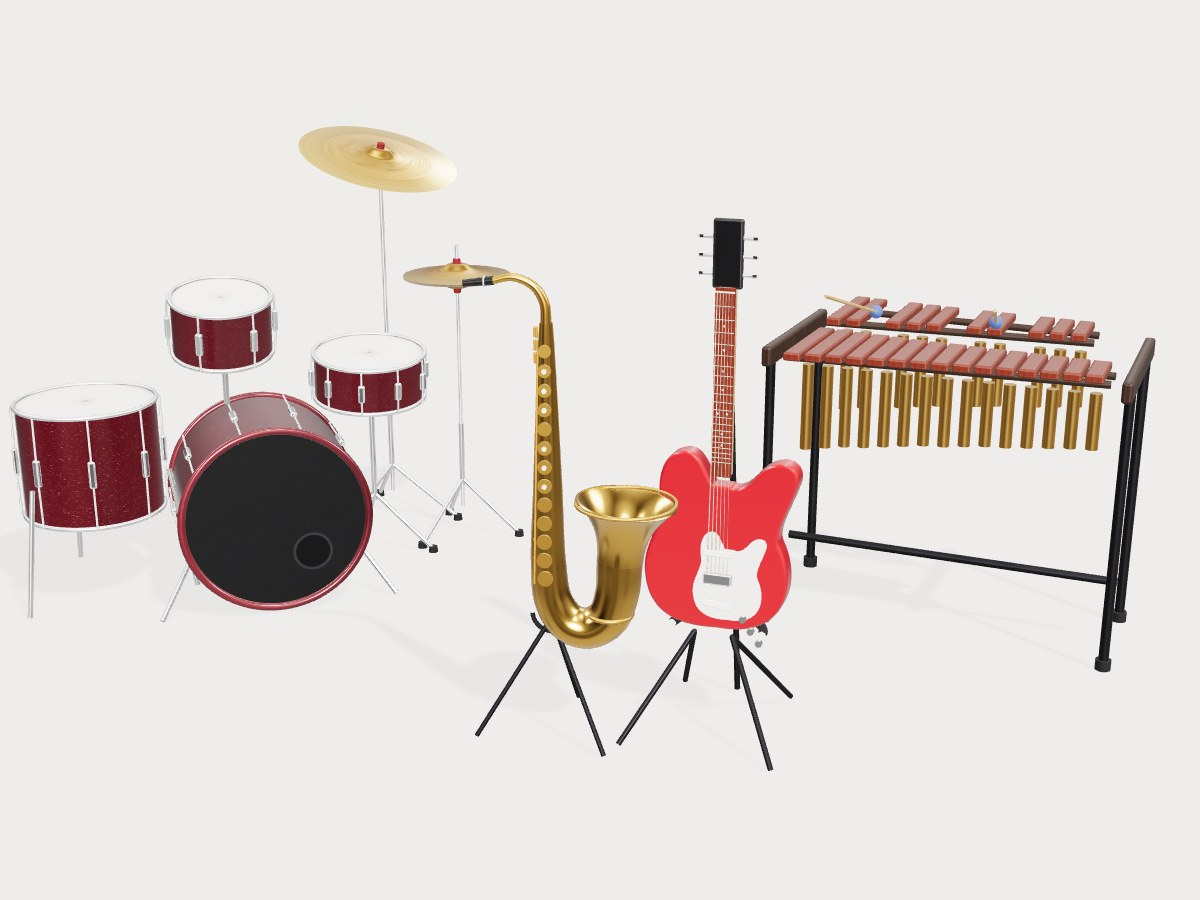
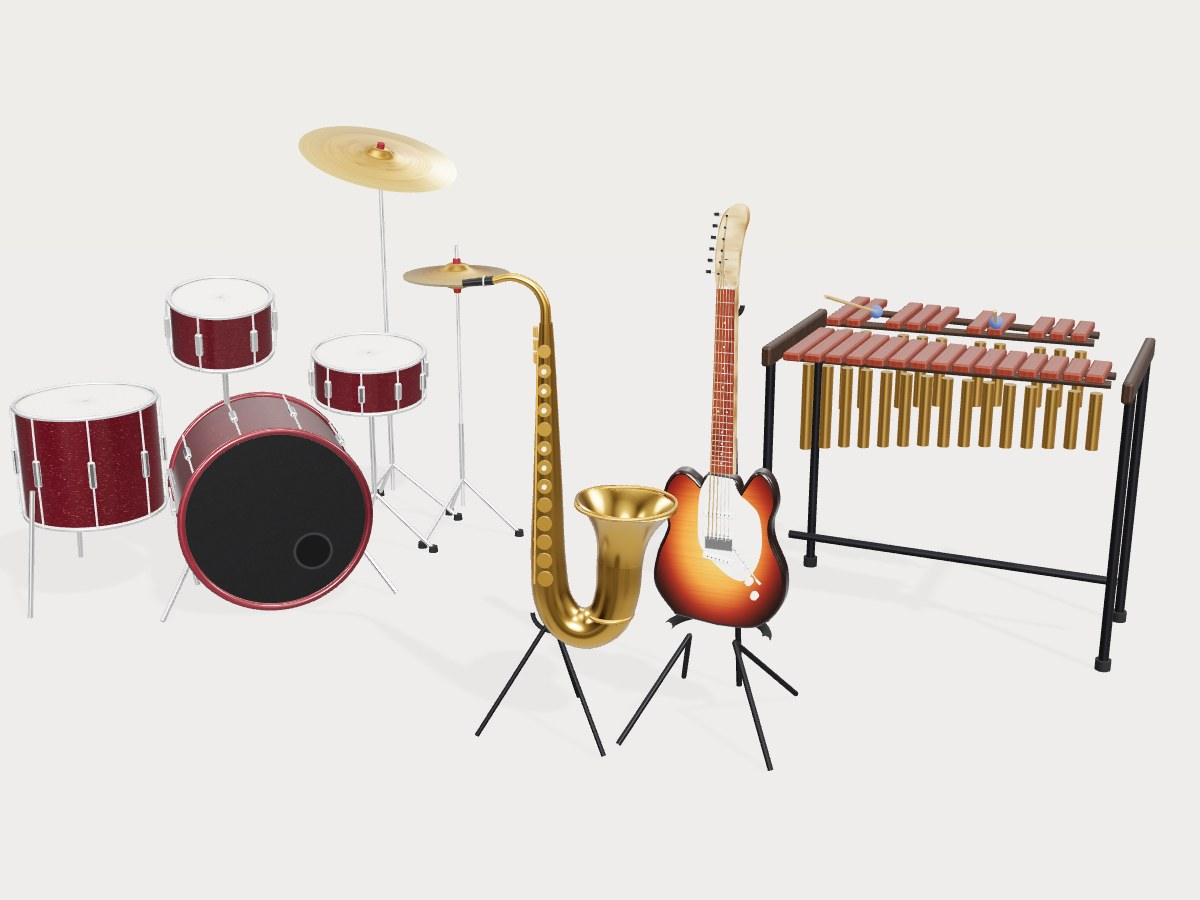
Lab: Instruments - new guitar models (an S-type electric in sunburst with a guard, three single coils, a vibrato bridge and a six-in-line head; a dreadnought acoustic with binding, rosette, tortoise guard and a pinned bridge); levels as in Guitar Hero: Hero plays everything, 3 keys and 1 key play th

Changed region(s): [[0.5242, 0.2178, 0.6783, 0.7778], [0.5242, 0.7467, 0.555, 0.8089]]

diff --git a/lab-board/pieces/instruments/index.html b/lab-board/pieces/instruments/index.html
@@ -590,7 +590,7 @@ const SM = () => (G.state === 'play' ? 'keys' : P.saxMode);   // (a song is alwa
 function openSongs() { saxOff(); G.state = 'pick'; renderTools(); updateHint(); }
 function metro(at, accent) { const o = ctx.createOscillator(), g = ctx.createGain(); o.frequency.value = accent ? 1760 : 1180; g.gain.setValueAtTime(0, at); g.gain.linearRampToValueAtTime(.22, at + .002); g.gain.exponentialRampToValueAtTime(.001, at + .07); o.connect(g); g.connect(master); o.start(at); o.stop(at + .09); }
 // (the lanes a song needs, in order, and their keys: a run in the middle of the home row; more than ten use the number row)
-const LEVELS = [['easy', '1 key'], ['medium', '3 keys'], ['full', 'All keys']];
+const LEVELS = [['easy', '1 key'], ['medium', '3 keys'], ['full', 'Hero']];
 const CYMBALS = ['hihat', 'crash', 'ride'];
 // (in 1 key and 3 keys a press only has to land in time: the right sound plays by itself)
 function groupOf(lane) { if (G.level === 'easy') return 'all';
@@ -614,14 +614,21 @@ function gameStart(song, opt = {}) { unlock(); result.hidden = true; saxOff(); G
   const beat = 60 / song.bpm / G.speed, lead = 4 * beat + .7;
   let notes = song.notes.map(n => ({ ...n, t: (n.sec != null ? n.sec : n.beat * 60 / song.bpm) / G.speed + lead, len: (n.dur || 0) * (n.beatSec || 60 / song.bpm) / G.speed, j: null, play: [n.lane] })).sort((a, b) => a.t - b.t);
   if (G.group) { if (P.look !== 'Drums') { const ps = notes.map(n => P.look === 'Guitar' ? chordRoot(n.lane) : n.lane), lo = Math.min(...ps), hi = Math.max(...ps); G.bands = { lo, third: Math.max(1, (hi - lo + 1) / 3) }; }
+    // (you play the main notes: in 1 key one at most every two beats, on a beat; in 3 keys about one a beat, on the eighths.
+    //  The others the app plays itself, in time, so the song stays whole)
+    const grid = G.level === 'easy' ? 1 : .5, gap = G.level === 'easy' ? 1.9 : .9; let last = -9; const mine = [];
+    G.auto = []; G.autoAt = 0;
+    for (const n of notes) { const b = n.beat ?? 0, onGrid = Math.abs(b / grid - Math.round(b / grid)) < .02, sameAsKept = Math.abs(b - last) < .002 && mine.length && Math.abs(mine[mine.length - 1].t - n.t) < .002;
+      if (sameAsKept || (onGrid && b - last >= gap - 1e-6) || (n.sec != null && onGrid && n.t - (mine[mine.length - 1]?.t ?? -9) > .3)) { mine.push(n); last = b; } else G.auto.push({ t: n.t, len: n.len, play: [n.lane], lane: groupOf(n.lane) }); }
+    notes = mine;
     // (notes that land together in one lane become one note that plays them all)
     const merged = []; for (const n of notes) { const g = groupOf(n.lane), prev = merged.find(m => m.lane === g && Math.abs(m.t - n.t) < .002); if (prev) { prev.play.push(n.lane); prev.len = Math.max(prev.len, n.len); } else merged.push({ ...n, lane: g }); }
     notes = merged; G.lanes = groupLanes(notes); }
-  else G.lanes = songLanes(song);
+  else { G.lanes = songLanes(song); G.auto = []; }
   G.notes = notes; G.keys = {}; for (const l of G.lanes) G.keys[l.key] = l;
   if (G.level === 'easy') for (const k of [' ', 'f', 'g', 'h', 'j']) G.keys[k] = G.lanes[0];
   else if (P.look === 'Drums') { const kl = G.lanes.find(l => l.id === (G.group ? 'feet' : 'kick')); if (kl) G.keys[' '] = kl; }
-  G.score = 0; G.combo = 0; G.maxCombo = 0; G.n = { perfect: 0, good: 0, miss: 0 }; G.fx = []; G.marks = []; G.meter = []; G.end = G.notes[G.notes.length - 1].t + G.notes[G.notes.length - 1].len + 1.2;
+  G.score = 0; G.combo = 0; G.maxCombo = 0; G.n = { perfect: 0, good: 0, miss: 0 }; G.fx = []; G.marks = []; G.meter = []; G.end = G.notes[G.notes.length - 1].t + G.notes[G.notes.length - 1].len + 1.2; if (G.auto?.length) { const la = G.auto[G.auto.length - 1]; G.end = Math.max(G.end, la.t + la.len + 1.2); }
   G.together = !!opt.at; G.start = (opt.at ?? performance.now()) / 1000; const t0 = ctx.currentTime + Math.max(0, G.start - performance.now() / 1000) + .7; for (let i = 0; i < 4; i++) metro(t0 + i * beat, i === 0);   // (four clicks in: a metronome, not music)
   G.state = 'play'; buildCaps(); renderTools(); updateHint(); }
 function gameStop() { setKit(P.drumKit); if (NET.host && NET.conn?.open && G.state === 'play') tx({ t: 'stop' }); G.state = 'off'; result.hidden = true; caps.hidden = true; hud.hidden = true; hctx.clearRect(0, 0, hwy.width, hwy.height); saxOff(); renderTools(); updateHint(); }
@@ -632,7 +639,9 @@ function gameInput(lane, sound = false) { if (G.state !== 'play') return; const 
   const cap = caps.querySelector(`[data-lane="${lane}"]`), gl = G.lanes.find(l => l.id === lane); if (gl) gl.flash = performance.now(); if (cap && !cap.classList.contains('on')) { cap.classList.add('tap'); setTimeout(() => cap.classList.remove('tap'), 130); }
   let best = null, bd = 9;
   for (const n of G.notes) { if (n.t - now > HIT.good) break; if (n.j || n.lane !== lane) continue; const d = Math.abs(n.t - now); if (d < bd) { bd = d; best = n; } }
-  if (best && bd <= HIT.good) { const dt = now - best.t; judge(best, bd <= HIT.perfect ? 'perfect' : 'good'); if (sound) playNote(best); G.marks.push({ lane, dt, kind: best.j, t: performance.now() }); G.meter.push({ dt, kind: best.j, t: performance.now() }); }
+  if (sound && !(best && bd <= HIT.good)) { let near = null, nd = .28; for (const n of G.notes) { if (n.t - now > .28) break; if (n.lane !== lane || n.sounded) continue; const d = Math.abs(n.t - now); if (d < nd) { nd = d; near = n; } }
+    if (near) { if (!near.j) judge(near, 'miss'); near.sounded = true; playNote(near); G.marks.push({ lane, dt: now - near.t, kind: 'off', t: performance.now() }); return; } }
+  if (best && bd <= HIT.good) { const dt = now - best.t; judge(best, bd <= HIT.perfect ? 'perfect' : 'good'); if (sound) { playNote(best); best.sounded = true; } G.marks.push({ lane, dt, kind: best.j, t: performance.now() }); G.meter.push({ dt, kind: best.j, t: performance.now() }); }
   else G.marks.push({ lane, dt: null, kind: 'stray', t: performance.now() }); }
 // (the right sound for a note found by a grouped press: the pieces, the bar, or the saxophone held while the key is down)
 function playNote(n) { if (P.look === 'Drums') for (const id of n.play) { const p = PIECES.find(q => q.id === id); if (p) hitPiece(p, .9, false, true); }
@@ -658,6 +667,7 @@ function gameKey(e, down) { const k = e.key === ' ' ? ' ' : e.key.toLowerCase(),
   if (down) { if (e.repeat || heldLanes.has(k)) return true; heldLanes.add(k); laneDown(l); } else { heldLanes.delete(k); laneUp(l); } return true; }
 const rr = (c, x, y, w, h, r) => { c.beginPath(); c.roundRect(x, y, w, h, r); };
 function gameFrame() { if (G.state !== 'play') return; const now = gameNow(), tn = performance.now();
+  while (G.auto && G.autoAt < G.auto.length && G.auto[G.autoAt].t <= now + .004) { const a = G.auto[G.autoAt++]; if (P.look === 'Saxophone') { const m = a.play[0]; if (G.held == null) { saxOn(m, .8, true); setTimeout(() => { if (voice && voice.m === m && G.held == null) saxOff(m); }, Math.max(90, a.len * 1000 * .9)); } } else playNote(a); }
   for (const n of G.notes) { if (n.t - now > 0) break; if (!n.j && now - n.t > HIT.good) judge(n, 'miss'); }
   const dpr = Math.min(devicePixelRatio, 2), W = innerWidth, H = innerHeight; if (hwy.width !== Math.round(W * dpr) || hwy.height !== Math.round(H * dpr)) { hwy.width = Math.round(W * dpr); hwy.height = Math.round(H * dpr); }
   const c = hctx; c.setTransform(dpr, 0, 0, dpr, 0, 0); c.clearRect(0, 0, W, H);
@@ -682,11 +692,12 @@ function gameFrame() { if (G.state !== 'play') return; const now = gameNow(), tn
     c.globalAlpha = n.j === 'miss' ? .25 : 1; c.fillStyle = l.color; rr(c, x, y - h / 2, sw, h, h / 2); c.fill();
     c.fillStyle = 'rgba(255,255,255,.35)'; rr(c, x + 3, y - h / 2 + 2, sw - 6, h * .38, h * .2); c.fill(); c.globalAlpha = 1; }
   c.restore();
+  if (G.auto) { c.save(); c.beginPath(); c.rect(0, 0, W, hitY); c.clip(); for (let i = G.autoAt; i < G.auto.length; i++) { const a = G.auto[i]; if (a.t - now > AHEAD) break; const l = byId.get(a.lane); if (!l) continue; c.globalAlpha = .28; c.fillStyle = l.color; c.beginPath(); c.arc(l.x + l.w / 2, yOf(a.t), 4, 0, 7); c.fill(); } c.restore(); c.globalAlpha = 1; }
   // your marks: a tick where you pressed, against the note (early above the line, late below), with the milliseconds; a stray press a small cross
   G.marks = G.marks.filter(m => tn - m.t < 900);
   for (const m of G.marks) { const l = byId.get(m.lane); if (!l) continue; const a = 1 - (tn - m.t) / 900, cx = l.x + l.w / 2; c.globalAlpha = a;
     if (m.kind === 'stray') { c.strokeStyle = 'rgba(20,20,20,.45)'; c.lineWidth = 2; c.beginPath(); c.moveTo(cx - 6, hitY - 6); c.lineTo(cx + 6, hitY + 6); c.moveTo(cx + 6, hitY - 6); c.lineTo(cx - 6, hitY + 6); c.stroke(); c.globalAlpha = 1; continue; }
-    const y = hitY + clamp(m.dt / HIT.good, -1, 1) * 26, col = m.kind === 'perfect' ? '#1f9d55' : '#c98a1b'; c.fillStyle = col; rr(c, l.x + 8, y - 2, l.w - 16, 4, 2); c.fill();
+    const y = hitY + clamp(m.dt / HIT.good, -1, 1) * 26, col = m.kind === 'perfect' ? '#1f9d55' : m.kind === 'good' ? '#c98a1b' : '#8b8b8b'; c.fillStyle = col; rr(c, l.x + 8, y - 2, l.w - 16, 4, 2); c.fill();
     c.font = '600 10px Geist, system-ui, sans-serif'; c.textAlign = 'center'; c.fillText(Math.abs(m.dt) < .012 ? 'on time' : `${m.dt < 0 ? 'early' : 'late'} ${Math.round(Math.abs(m.dt) * 1000)} ms`, cx, hitY - 16); c.globalAlpha = 1; }
   G.fx = G.fx.filter(f => tn - f.t < 600);
   for (const f of G.fx) { const l = byId.get(f.lane); if (!l) continue; const k = (tn - f.t) / 600; c.globalAlpha = 1 - k; c.fillStyle = f.kind === 'perfect' ? '#1f9d55' : f.kind === 'good' ? '#c98a1b' : '#b23b3b';
@@ -730,45 +741,82 @@ const GT = new THREE.Group(); scene.add(GT);
 const GSTR = [];
 const GUITAR_FINISH = { electric: '#b3202a', acoustic: '#c98b4e' };
 (function buildGuitar() {
-  const lift = .3, neckLen = .46, nutY = lift + .4 + neckLen, bridgeY = lift + .12;
-  // (the electric body: a double-cut outline, extruded and bevelled; a white guard, three pickups, a chrome bridge)
-  const eb = new THREE.Shape(); eb.moveTo(0, -.21); eb.bezierCurveTo(.17, -.22, .2, -.08, .15, .02); eb.bezierCurveTo(.13, .06, .17, .12, .19, .19); eb.bezierCurveTo(.2, .24, .14, .25, .1, .2);
-  eb.bezierCurveTo(.07, .16, .04, .15, .025, .16); eb.lineTo(-.025, .16); eb.bezierCurveTo(-.05, .2, -.06, .25, -.1, .24); eb.bezierCurveTo(-.15, .23, -.16, .16, -.15, .1); eb.bezierCurveTo(-.14, .05, -.2, -.02, -.19, -.09); eb.bezierCurveTo(-.18, -.2, -.1, -.22, 0, -.21);
+  // (the guitar lives in its own group, GT.userData.axe, so a player on the stage can hold it; the stand is apart, GT.userData.stand)
+  const axe = new THREE.Group(), stand = new THREE.Group(); GT.add(axe, stand); GT.userData.axe = axe; GT.userData.stand = stand;
+  const smooth = (pts, mirror) => { const all = mirror ? pts.concat(pts.slice(1, -1).reverse().map(([x, y]) => [-x, y])) : pts; const sh = new THREE.Shape(); sh.moveTo(...all[0]); sh.splineThru(all.slice(1).map(([x, y]) => new THREE.Vector2(x, y))); sh.closePath(); return sh; };
+  const lift = .3, bodyC = lift + .23, neckLen = .47, nutY = bodyC + .17 + neckLen, scale = .64, bridgeY = nutY - scale;
+  const capUV = (tex, w, h) => { tex.repeat.set(1 / w, 1 / h); tex.offset.set(.5, .5); tex.wrapS = tex.wrapT = THREE.ClampToEdgeWrapping; return tex; };
+  // ---- the electric: an S-type body (two horns, the lower one shorter), sunburst lacquer, a white guard, three single coils, a vibrato bridge ----
   const elec = new THREE.Group(); elec.name = 'electric';
-  const bodyMat = new THREE.MeshPhysicalMaterial({ color: GUITAR_FINISH.electric, roughness: .3, clearcoat: 1, clearcoatRoughness: .04, metalness: .1 });
-  const body = new THREE.Mesh(new THREE.ExtrudeGeometry(eb, { depth: .04, bevelEnabled: true, bevelThickness: .008, bevelSize: .008, bevelSegments: 4, curveSegments: 40 }), bodyMat); body.position.set(0, lift + .2, -.02); elec.add(body);
-  const guard = new THREE.Mesh(new THREE.ExtrudeGeometry(eb, { depth: .002, bevelEnabled: false, curveSegments: 40 }), new THREE.MeshPhysicalMaterial({ color: '#f3efe6', roughness: .35, clearcoat: .6 })); guard.scale.set(.5, .52, 1); guard.position.set(.03, lift + .12, .029); elec.add(guard);
-  for (const y of [.03, .1, .17]) { const pu = new THREE.Mesh(new RoundedBoxGeometry(.075, .018, .01, 2, .004), new THREE.MeshStandardMaterial({ color: '#f6f3ec', roughness: .5 })); pu.position.set(0, lift + y + .02, .034); pu.rotation.z = y === .03 ? -.12 : 0; elec.add(pu); }
-  const br = new THREE.Mesh(new RoundedBoxGeometry(.075, .03, .012, 2, .004), M.chrome); br.position.set(0, bridgeY, .034); elec.add(br);
-  for (let i = 0; i < 3; i++) { const kn = cyl(.009, .009, .012, M.chrome, 20); kn.rotation.x = Math.PI / 2; kn.position.set(.07 + i * .022, lift + .02 - i * .03, .036); elec.add(kn); }
-  // (the acoustic body: a dreadnought, a spruce top with a sound hole and a rosette, rosewood sides and back, a bridge)
-  const ab = new THREE.Shape(); ab.moveTo(0, -.25); ab.bezierCurveTo(.2, -.25, .23, -.1, .17, .0); ab.bezierCurveTo(.14, .05, .19, .12, .17, .19); ab.bezierCurveTo(.15, .25, .05, .25, 0, .24); ab.bezierCurveTo(-.05, .25, -.15, .25, -.17, .19); ab.bezierCurveTo(-.19, .12, -.14, .05, -.17, 0); ab.bezierCurveTo(-.23, -.1, -.2, -.25, 0, -.25);
+  const sOut = smooth([[0, -.235], [.1, -.225], [.158, -.16], [.163, -.08], [.13, .0], [.124, .05], [.136, .1], [.128, .145], [.108, .172], [.088, .17], [.068, .14], [.048, .112], [.03, .15], [-.03, .155], [-.05, .125], [-.072, .142], [-.096, .156], [-.12, .148], [-.14, .11], [-.142, .06], [-.13, .01], [-.158, -.07], [-.163, -.15], [-.11, -.222]]);
+  const burst = tex(512, 512, (g, w, h) => { const r = g.createRadialGradient(w / 2, h * .55, 20, w / 2, h / 2, w * .55); r.addColorStop(0, '#f2b33d'); r.addColorStop(.42, '#d8761e'); r.addColorStop(.72, '#7a2410'); r.addColorStop(1, '#170806'); g.fillStyle = r; g.fillRect(0, 0, w, h);
+    for (let i = 0; i < 160; i++) { g.strokeStyle = `rgba(80,30,10,${.03 + rnd() * .06})`; g.lineWidth = 1 + rnd() * 2; g.beginPath(); const y = rnd() * h; g.moveTo(0, y); g.bezierCurveTo(w * .3, y + rnd() * 20 - 10, w * .7, y + rnd() * 20 - 10, w, y + rnd() * 16 - 8); g.stroke(); } });
+  const bodyMat = new THREE.MeshPhysicalMaterial({ map: capUV(burst, .36, .5), color: '#ffffff', roughness: .32, clearcoat: 1, clearcoatRoughness: .03 });
+  const body = new THREE.Mesh(new THREE.ExtrudeGeometry(sOut, { depth: .03, bevelEnabled: true, bevelThickness: .009, bevelSize: .009, bevelSegments: 5, curveSegments: 64 }), [bodyMat, new THREE.MeshPhysicalMaterial({ color: '#1e0b07', roughness: .35, clearcoat: 1 })]);
+  body.position.set(0, bodyC, -.015); elec.add(body);
+  const guardOut = smooth([[.03, .158], [.05, .12], [.075, .1], [.1, .07], [.11, .0], [.1, -.06], [.07, -.105], [.03, -.1], [-.02, -.06], [-.05, -.02], [-.055, .05], [-.05, .12], [-.03, .162]]);
+  const guard = new THREE.Mesh(new THREE.ExtrudeGeometry(guardOut, { depth: .0025, bevelEnabled: true, bevelThickness: .0008, bevelSize: .0015, bevelSegments: 2, curveSegments: 48 }), new THREE.MeshPhysicalMaterial({ color: '#f4f1e8', roughness: .3, clearcoat: .7 })); guard.position.set(0, bodyC, .0245); elec.add(guard);
+  const coverMat = new THREE.MeshStandardMaterial({ color: '#f6f3ea', roughness: .45 });
+  for (const [y, tilt] of [[.115, 0], [.06, 0], [-.005, -.17]]) { const pu = new THREE.Group(), c = new THREE.Mesh(new RoundedBoxGeometry(.083, .019, .009, 3, .0045), coverMat); pu.add(c);
+    for (let i = 0; i < 6; i++) { const pole = cyl(.0018, .0018, .002, M.chrome, 8); pole.rotation.x = Math.PI / 2; pole.position.set((i - 2.5) * .0105, 0, .0048); pu.add(pole); }
+    pu.position.set(0, bodyC + y - .05, .03); pu.rotation.z = tilt; elec.add(pu); }
+  const plate = new THREE.Mesh(new RoundedBoxGeometry(.074, .042, .004, 2, .002), M.chrome); plate.position.set(0, bridgeY - .012, .027); elec.add(plate);
+  for (let i = 0; i < 6; i++) { const sd = new THREE.Mesh(new RoundedBoxGeometry(.0095, .016, .006, 1, .002), M.chrome); sd.position.set((i - 2.5) * .0105, bridgeY + .002 + (i % 2) * .003, .031); elec.add(sd); }
+  const arm = new THREE.Group(); arm.add(rod(new THREE.Vector3(.036, bridgeY - .02, .031), new THREE.Vector3(.05, bridgeY - .02, .05), .0022, M.chrome), rod(new THREE.Vector3(.05, bridgeY - .02, .05), new THREE.Vector3(.11, bridgeY - .09, .058), .0022, M.chrome)); const tip = cyl(.0035, .0035, .016, coverMat, 10); tip.position.set(.113, bridgeY - .093, .058); tip.rotation.z = .8; arm.add(tip); elec.add(arm);
+  for (const [x, y] of [[.062, -.07], [.083, -.105], [.098, -.142]]) { const k = cyl(.0095, .011, .015, coverMat, 24); k.rotation.x = Math.PI / 2; k.position.set(x, bodyC + y, .034); elec.add(k); }
+  const sw = new THREE.Mesh(new RoundedBoxGeometry(.006, .012, .01, 1, .002), coverMat); sw.position.set(.07, bodyC - .025, .035); sw.rotation.z = -.5; elec.add(sw);
+  const jack = new THREE.Mesh(new THREE.CylinderGeometry(.012, .012, .003, 20), M.chrome); jack.rotation.x = Math.PI / 2; jack.scale.set(1.5, 1, .8); jack.position.set(.14, bodyC - .13, .016); jack.rotation.y = .4; elec.add(jack);
+  // ---- the acoustic: a dreadnought, spruce top with a white binding, a rosette, a tortoise guard, a rosewood bridge with pins ----
   const acou = new THREE.Group(); acou.name = 'acoustic';
-  const spruce = new THREE.MeshPhysicalMaterial({ map: woodTex('#d9b77e', '#b08a52', '#efd5a2', 256, 512), roughness: .4, clearcoat: .8, clearcoatRoughness: .1 });
-  const sides = new THREE.Mesh(new THREE.ExtrudeGeometry(ab, { depth: .09, bevelEnabled: true, bevelThickness: .004, bevelSize: .004, bevelSegments: 2, curveSegments: 48 }), M.rosewood); sides.position.set(0, lift + .2, -.07); acou.add(sides);
-  const top = new THREE.Mesh(new THREE.ShapeGeometry(ab, 48), spruce); top.position.set(0, lift + .2, .0245); acou.add(top);
-  const hole = new THREE.Mesh(new THREE.CircleGeometry(.045, 40), new THREE.MeshStandardMaterial({ color: '#120b07', roughness: 1 })); hole.position.set(0, lift + .32, .026); acou.add(hole);
-  const ros = new THREE.Mesh(new THREE.RingGeometry(.05, .058, 48), M.walnut); ros.position.set(0, lift + .32, .026); acou.add(ros);
-  const abr = new THREE.Mesh(new RoundedBoxGeometry(.1, .022, .008, 2, .004), M.ebony); abr.position.set(0, bridgeY, .029); acou.add(abr);
-  GT.add(elec, acou);
-  // (the neck: maple, a rosewood board with frets on the twelfth-root rule and pearl dots, a headstock with six tuners)
-  const scale = .63, neck = new THREE.Mesh(new RoundedBoxGeometry(.05, neckLen + .02, .022, 2, .008), M.birch); neck.position.set(0, lift + .4 + neckLen / 2, .005); GT.add(neck);
-  const board = new THREE.Mesh(new THREE.BoxGeometry(.05, neckLen + .02, .006), M.rosewood); board.position.set(0, lift + .4 + neckLen / 2, .019); GT.add(board);
-  for (let f = 1; f <= 20; f++) { const y = nutY - scale * (1 - Math.pow(2, -f / 12)); if (y < lift + .4) break; const fr = cyl(.0012, .0012, .05, M.chrome, 6); fr.rotation.z = Math.PI / 2; fr.position.set(0, y, .023); GT.add(fr);
-    if ([3, 5, 7, 9, 15, 17].includes(f) || f === 12) { const yy = y + scale * (Math.pow(2, -(f - 1) / 12) - Math.pow(2, -f / 12)) / 2; for (const dx of f === 12 ? [-.012, .012] : [0]) { const dot = cyl(.003, .003, .002, M.pearl, 12); dot.rotation.x = Math.PI / 2; dot.position.set(dx, yy, .0225); GT.add(dot); } } }
-  const hs = new THREE.Mesh(new RoundedBoxGeometry(.075, .17, .016, 2, .006), new THREE.MeshPhysicalMaterial({ color: '#1b1a1c', roughness: .3, clearcoat: 1 })); hs.position.set(0, nutY + .09, .002); GT.add(hs);
-  for (let i = 0; i < 6; i++) { const side = i < 3 ? -1 : 1, y = nutY + .04 + (i % 3) * .045; const pg = cyl(.005, .005, .025, M.chrome, 10); pg.rotation.z = Math.PI / 2; pg.position.set(side * .05, y, .002); GT.add(pg); const kn = new THREE.Mesh(new RoundedBoxGeometry(.016, .012, .006, 2, .003), M.chrome); kn.position.set(side * .067, y, .002); GT.add(kn); }
-  const nut = new THREE.Mesh(new THREE.BoxGeometry(.05, .004, .006), new THREE.MeshStandardMaterial({ color: '#efe9da', roughness: .4 })); nut.position.set(0, nutY, .024); GT.add(nut);
-  // (six strings, wound low ones thicker, from the bridge to the nut; each can ring visibly)
-  const strMat = new THREE.MeshStandardMaterial({ color: '#d8cfb8', metalness: 1, roughness: .25 });
-  for (let i = 0; i < 6; i++) { const xb = (i - 2.5) * .0105, xn = (i - 2.5) * .0074, a = new THREE.Vector3(xb, bridgeY, .037), b = new THREE.Vector3(xn, nutY, .027), m = rod(a, b, .0006 + (5 - i) * .00018, strMat); GT.add(m); GSTR.push({ mesh: m, base: m.position.clone(), t: 9, amp: 0 }); }
-  // (a stand: two feet and a neck cradle)
-  for (const s of [-1, 1]) GT.add(rod(new THREE.Vector3(s * .05, lift - .02, .06), new THREE.Vector3(s * .2, .01, .22), .007, M.steel), rod(new THREE.Vector3(s * .05, lift - .02, .06), new THREE.Vector3(s * .15, .01, -.2), .007, M.steel));
-  const cradle = new THREE.Mesh(new THREE.TorusGeometry(.12, .012, 8, 30, Math.PI), M.rubber); cradle.rotation.set(Math.PI / 2, 0, Math.PI); cradle.position.set(0, lift - .02, .03); GT.add(cradle);
-  GT.add(rod(new THREE.Vector3(0, .01, -.2), new THREE.Vector3(0, nutY - .1, -.03), .008, M.steel));
-  shadow(GT); GT.rotation.y = -.25; GT.userData.body = bodyMat;
+  const dOut = smooth([[0, -.255], [.12, -.24], [.188, -.17], [.195, -.08], [.16, .0], [.14, .045], [.148, .11], [.142, .18], [.11, .235], [.05, .255], [0, .258]], true);
+  const spruce = new THREE.MeshPhysicalMaterial({ map: capUV(woodTex('#dcbb83', '#b8925a', '#f1d9a6', 512, 512), .42, .52), roughness: .38, clearcoat: .9, clearcoatRoughness: .08 });
+  const sides = new THREE.Mesh(new THREE.ExtrudeGeometry(dOut, { depth: .095, bevelEnabled: true, bevelThickness: .004, bevelSize: .004, bevelSegments: 3, curveSegments: 64 }), M.rosewood); sides.position.set(0, bodyC, -.075); acou.add(sides);
+  const binding = new THREE.Mesh(new THREE.ShapeGeometry(dOut, 64), new THREE.MeshStandardMaterial({ color: '#efe8d8', roughness: .4 })); binding.position.set(0, bodyC, .0235); binding.scale.set(1.012, 1.01, 1); acou.add(binding);
+  const top = new THREE.Mesh(new THREE.ShapeGeometry(dOut, 64), spruce); top.position.set(0, bodyC, .0245); acou.add(top);
+  const holeY = bodyC + .09; const hole = new THREE.Mesh(new THREE.CircleGeometry(.044, 48), new THREE.MeshStandardMaterial({ color: '#0c0705', roughness: 1 })); hole.position.set(0, holeY, .0255); acou.add(hole);
+  for (const [r0, r1, c] of [[.05, .056, '#1b1410'], [.056, .059, '#efe8d8'], [.059, .064, '#2a1a10'], [.064, .066, '#efe8d8']]) { const rg = new THREE.Mesh(new THREE.RingGeometry(r0, r1, 64), new THREE.MeshStandardMaterial({ color: c, roughness: .5 })); rg.position.set(0, holeY, .0256); acou.add(rg); }
+  const tort = tex(256, 256, (g, w, h) => { g.fillStyle = '#3a1608'; g.fillRect(0, 0, w, h); for (let i = 0; i < 60; i++) { g.fillStyle = `rgba(${150 + rnd() * 60 | 0},${70 + rnd() * 40 | 0},20,${.25 + rnd() * .35})`; g.beginPath(); g.ellipse(rnd() * w, rnd() * h, 6 + rnd() * 22, 4 + rnd() * 12, rnd() * 3, 0, 7); g.fill(); } });
+  const pgS = smooth([[.045, .06], [.085, .03], [.11, -.02], [.1, -.065], [.065, -.075], [.05, -.03], [.06, .02]]);
+  const pg = new THREE.Mesh(new THREE.ShapeGeometry(pgS, 32), new THREE.MeshPhysicalMaterial({ map: capUV(tort, .2, .2), roughness: .3, clearcoat: 1 })); pg.position.set(0, holeY - .02, .0257); acou.add(pg);
+  const brS = smooth([[-.075, .0], [-.06, .012], [-.03, .014], [.03, .014], [.06, .012], [.075, .0], [.06, -.012], [.03, -.014], [-.03, -.014], [-.06, -.012]]);
+  const br = new THREE.Mesh(new THREE.ExtrudeGeometry(brS, { depth: .006, bevelEnabled: true, bevelThickness: .0015, bevelSize: .0015, bevelSegments: 2 }), M.ebony); br.position.set(0, bridgeY - .006, .025); acou.add(br);
+  const saddle = new THREE.Mesh(new RoundedBoxGeometry(.075, .003, .005, 1, .001), new THREE.MeshStandardMaterial({ color: '#f3ecdc', roughness: .4 })); saddle.position.set(0, bridgeY + .002, .034); acou.add(saddle);
+  for (let i = 0; i < 6; i++) { const pin = cyl(.0024, .0024, .004, new THREE.MeshStandardMaterial({ color: '#f1ead9', roughness: .4 }), 10); pin.rotation.x = Math.PI / 2; pin.position.set((i - 2.5) * .0105, bridgeY - .01, .033); acou.add(pin); }
+  axe.add(elec, acou);
+  // ---- the neck, shared: a tapering maple neck, a rosewood board with 21 frets (the twelfth-root rule) and pearl dots, a bone nut ----
+  const neckS = new THREE.Shape(); neckS.moveTo(-.028, 0); neckS.lineTo(.028, 0); neckS.lineTo(.0215, neckLen); neckS.lineTo(-.0215, neckLen); neckS.closePath();
+  const neck = new THREE.Mesh(new THREE.ExtrudeGeometry(neckS, { depth: .016, bevelEnabled: true, bevelThickness: .006, bevelSize: .004, bevelSegments: 3 }), M.birch); neck.position.set(0, nutY - neckLen, -.006); axe.add(neck);
+  const boardS = new THREE.Shape(); boardS.moveTo(-.0285, 0); boardS.lineTo(.0285, 0); boardS.lineTo(.0215, neckLen); boardS.lineTo(-.0215, neckLen); boardS.closePath();
+  const board = new THREE.Mesh(new THREE.ExtrudeGeometry(boardS, { depth: .005, bevelEnabled: false }), M.rosewood); board.position.set(0, nutY - neckLen, .016); axe.add(board);
+  const wAt = y => lerp(.0285, .0215, clamp((y - (nutY - neckLen)) / neckLen, 0, 1)) * 2;
+  for (let f = 1; f <= 21; f++) { const y = nutY - scale * (1 - Math.pow(2, -f / 12)); if (y < nutY - neckLen + .004) break; const fr = cyl(.0011, .0011, wAt(y), M.chrome, 6); fr.rotation.z = Math.PI / 2; fr.position.set(0, y, .0215); axe.add(fr);
+    if ([3, 5, 7, 9, 15, 17, 19, 21].includes(f) || f === 12) { const yy = y + scale * (Math.pow(2, -(f - 1) / 12) - Math.pow(2, -f / 12)) / 2; for (const dx of f === 12 ? [-.011, .011] : [0]) { const dot = cyl(.0028, .0028, .001, M.pearl, 14); dot.rotation.x = Math.PI / 2; dot.position.set(dx, yy, .0212); axe.add(dot); } } }
+  const nut = new THREE.Mesh(new RoundedBoxGeometry(.044, .005, .007, 1, .0015), new THREE.MeshStandardMaterial({ color: '#efe9da', roughness: .4 })); nut.position.set(0, nutY, .022); axe.add(nut);
+  // ---- the headstocks: six in a row for the electric, three a side for the acoustic ----
+  const hsE = smooth([[-.022, 0], [.022, 0], [.027, .035], [.031, .085], [.038, .13], [.048, .168], [.044, .192], [.026, .2], [.004, .19], [-.014, .16], [-.024, .1], [-.026, .04]]);
+  const headE = new THREE.Group(); headE.name = 'electric';
+  { const hm = new THREE.Mesh(new THREE.ExtrudeGeometry(hsE, { depth: .012, bevelEnabled: true, bevelThickness: .003, bevelSize: .003, bevelSegments: 2, curveSegments: 32 }), M.birch); hm.position.set(0, nutY, .004); headE.add(hm); }
+  const ePosts = []; for (let i = 0; i < 6; i++) { const y = nutY + .035 + i * .028, x = -.016 + i * .0035; const post = cyl(.003, .003, .012, M.chrome, 10); post.rotation.x = Math.PI / 2; post.position.set(x, y, .024); headE.add(post); ePosts.push(new THREE.Vector3(x, y, .026));
+    const key = new THREE.Mesh(new RoundedBoxGeometry(.016, .011, .004, 2, .002), M.chrome); key.position.set(x - .03, y, .01); headE.add(key); headE.add(rod(new THREE.Vector3(x - .004, y, .01), new THREE.Vector3(x - .022, y, .01), .002, M.chrome)); }
+  const tree = new THREE.Mesh(new RoundedBoxGeometry(.008, .004, .004, 1, .001), M.chrome); tree.position.set(.002, nutY + .07, .026); headE.add(tree);
+  const hsA = smooth([[-.025, 0], [.025, 0], [.036, .06], [.042, .15], [.03, .175], [0, .17], [-.03, .175], [-.042, .15], [-.036, .06]]);
+  const headA = new THREE.Group(); headA.name = 'acoustic';
+  { const hm = new THREE.Mesh(new THREE.ExtrudeGeometry(hsA, { depth: .013, bevelEnabled: true, bevelThickness: .003, bevelSize: .003, bevelSegments: 2, curveSegments: 32 }), new THREE.MeshPhysicalMaterial({ color: '#1a1412', roughness: .3, clearcoat: 1 })); hm.position.set(0, nutY, .004); headA.add(hm); }
+  const aPosts = []; for (let i = 0; i < 6; i++) { const side = i < 3 ? -1 : 1, y = nutY + .045 + (i % 3) * .04, x = side * .022; const post = cyl(.003, .003, .012, M.chrome, 10); post.rotation.x = Math.PI / 2; post.position.set(x, y, .024); headA.add(post); aPosts.push(new THREE.Vector3(x, y, .026));
+    const key = new THREE.Mesh(new RoundedBoxGeometry(.018, .013, .005, 2, .002), M.chrome); key.position.set(side * .062, y, .01); headA.add(key); headA.add(rod(new THREE.Vector3(side * .04, y, .01), new THREE.Vector3(side * .054, y, .01), .002, M.chrome)); }
+  axe.add(headE, headA);
+  // ---- six strings: from the saddles over the nut (the part that rings) and on to the posts ----
+  const strMat = new THREE.MeshStandardMaterial({ color: '#d9d2c2', metalness: 1, roughness: .22 }), woundMat = new THREE.MeshStandardMaterial({ color: '#b9a27a', metalness: 1, roughness: .35 });
+  for (let i = 0; i < 6; i++) { const r = .0006 + (5 - i) * .00017, mat = i < 3 ? woundMat : strMat, a = new THREE.Vector3((i - 2.5) * .0105, bridgeY + .004, .0345), b = new THREE.Vector3((i - 2.5) * .0071, nutY, .0255);
+    const m = rod(a, b, r, mat); axe.add(m); GSTR.push({ mesh: m, base: m.position.clone(), t: 9, amp: 0 });
+    const tE = rod(b, ePosts[5 - i] || ePosts[0], r, mat); tE.name = 'electric'; headE.add(tE); const tA = rod(b, aPosts[i < 3 ? 2 - i : i] || aPosts[0], r, mat); tA.name = 'acoustic'; headA.add(tA); }
+  // ---- the stand: an A-frame with a neck yoke ----
+  for (const s of [-1, 1]) stand.add(rod(new THREE.Vector3(s * .06, lift - .03, .07), new THREE.Vector3(s * .2, .01, .22), .007, M.steel), rod(new THREE.Vector3(s * .06, lift - .03, .07), new THREE.Vector3(s * .16, .01, -.22), .007, M.steel));
+  const cradle = new THREE.Mesh(new THREE.TorusGeometry(.13, .012, 8, 30, Math.PI), M.rubber); cradle.rotation.set(Math.PI / 2, 0, Math.PI); cradle.position.set(0, lift - .03, .03); stand.add(cradle);
+  stand.add(rod(new THREE.Vector3(0, .01, -.22), new THREE.Vector3(0, nutY - .05, -.035), .008, M.steel)); const yoke = new THREE.Mesh(new THREE.TorusGeometry(.03, .006, 8, 20, Math.PI), M.rubber); yoke.position.set(0, nutY - .05, -.03); yoke.rotation.z = Math.PI; stand.add(yoke);
+  axe.position.y = 0; shadow(GT); GT.rotation.y = -.25; GT.userData.body = bodyMat; GT.userData.nutY = nutY; GT.userData.bridgeY = bridgeY; GT.userData.bodyC = bodyC;
 })();
-function setGuitar(kind) { for (const g of GT.children) if (g.name === 'electric' || g.name === 'acoustic') g.visible = g.name === kind; }
+function setGuitar(kind) { GT.traverse(g => { if (g.name === 'electric' || g.name === 'acoustic') g.visible = g.name === kind; }); }
 // (the sound: one buffer per string pitch and kind, made once and kept)
 const KS = new Map();
 function ksBuffer(m, kind) { const key = m + kind; if (KS.has(key)) return KS.get(key);

diff --git a/lab-board/index.html b/lab-board/index.html
@@ -547,7 +547,7 @@ const CFG = {
 const PIECES = [
   { slug:'glass-button', variants:6, title:'Glass Button', what:'An Ask AI button made of real, ray-traced glass. Hold it and it swells, let go and the menu (Write, Summarise, Translate) flows out of it; the label is printed on the surface and the icon is a glass bead with a symbol, a flowing orb or a carving. A panel tunes shape, refraction, light, glow and sound; hold the wheel to orbit.', year:'2026', kind:'interaction', live:'pieces/glass-button/', code:'https://github.com/vod123qwe/playground/tree/main/lab-board/pieces/glass-button', image:'thumbs/glass-button.jpg', depth:'thumbs/depth/glass-button.png', video:'thumbs/glass-button-hover.webm', words:['glass', 'light', 'spectral', 'mercury'], rect:{x:560,y:70,w:460,h:260} },
   // empty slots: the next experiments land here
-  { slug:'instruments', fresh:true, preview:'pieces/instruments/?demo=1', variants:4, title:'Instruments', what:'Four instruments in a light studio, one at a time: a drum kit that starts with a kick, a snare and a hi-hat and grows piece by piece (toms, cymbals, bongos, a conga), a rosewood xylophone over brass resonators, a tenor saxophone, and an electric or acoustic guitar whose strings are plucked in code. Tap or click what you want to hear, or play it from the keyboard. The saxophone plays three ways: keys like a piano, an old tune note by note, or your breath into the microphone. Play a song: notes fall to the line as in Guitar Hero and you play every one yourself (band songs every instrument can play: the Mountain King, Beethoven’s Fifth, Bach’s Toccata, the William Tell galop and the Ode to Joy, rock arrangements with the tune itself; Für Elise and the Bumblebee on the xylophone, the Saints, the Entertainer and the St. Louis Blues on the saxophone), scored Perfect, Good or Miss, on one key, three or all of them. Play together: send a link and play a band song with someone on another device, each on their own instrument, with a shared start and both scores at the end. Real recordings (VCSL, CC0); the models and their surfaces are made in code.', year:'2026', kind:'interaction', live:'pieces/instruments/', code:'https://github.com/vod123qwe/playground/tree/main/lab-board/pieces/instruments', image:'thumbs/instruments.jpg?v=3', words:['music', 'drums', 'guitar', 'xylophone', 'saxophone', 'multiplayer', 'web audio', '3d'], rect:{x:3060,y:420,w:420,h:315} },
+  { slug:'instruments', fresh:true, preview:'pieces/instruments/?demo=1', variants:4, title:'Instruments', what:'Four instruments in a light studio, one at a time: a drum kit that starts with a kick, a snare and a hi-hat and grows piece by piece (toms, cymbals, bongos, a conga), a rosewood xylophone over brass resonators, a tenor saxophone, and an electric or acoustic guitar whose strings are plucked in code. Tap or click what you want to hear, or play it from the keyboard. The saxophone plays three ways: keys like a piano, an old tune note by note, or your breath into the microphone. Play a song: notes fall to the line as in Guitar Hero and you play every one yourself (band songs every instrument can play: the Mountain King, Beethoven’s Fifth, Bach’s Toccata, the William Tell galop and the Ode to Joy, rock arrangements with the tune itself; Für Elise and the Bumblebee on the xylophone, the Saints, the Entertainer and the St. Louis Blues on the saxophone), scored Perfect, Good or Miss, on one key, three or all of them. Play together: send a link and play a band song with someone on another device, each on their own instrument, with a shared start and both scores at the end. Real recordings (VCSL, CC0); the models and their surfaces are made in code.', year:'2026', kind:'interaction', live:'pieces/instruments/', code:'https://github.com/vod123qwe/playground/tree/main/lab-board/pieces/instruments', image:'thumbs/instruments.jpg?v=4', words:['music', 'drums', 'guitar', 'xylophone', 'saxophone', 'multiplayer', 'web audio', '3d'], rect:{x:3060,y:420,w:420,h:315} },
   { slug:'like-button', fresh:true, preview:'pieces/like-button/?demo=1', variants:2, title:'Like Button', what:'A like, made to feel like a small reward. Press and the heart dips under the finger; let go and it fills, a ring and a spray of dots burst round it and the count rolls on by one. Two looks: Classic (a crisp burst) and Liquid (the colour poured in with a wave). Light and dark; a panel tunes every layer, small hearts floating up included.', year:'2026', kind:'interaction', live:'pieces/like-button/', code:'https://github.com/vod123qwe/playground/tree/main/lab-board/pieces/like-button', image:'thumbs/like-button.jpg', words:['heart', 'burst', 'liquid', 'reward'], rect:{x:90,y:100,w:330,h:460} },
   { slug:'variant-pill', fresh:true, preview:'pieces/variant-pill/?demo=1', title:'Variant Pill', what:'The lab’s variant switch on its own: a pill with the name of what is on. Tap the arrows, grab it and swipe (it follows with resistance and springs back), or tap the name and the pill grows up into a menu of all of them, then folds back on a pick. Light or dark; a panel tunes the swipe, the spring and the morph.', year:'2026', kind:'interaction', live:'pieces/variant-pill/', code:'https://github.com/vod123qwe/playground/tree/main/lab-board/pieces/variant-pill', image:'thumbs/variant-pill.jpg?v=3', words:['swipe', 'morph', 'menu', 'spring'], rect:{x:1160,y:140,w:520,h:400} },
 

diff --git a/lab-board/pieces/instruments/README.md b/lab-board/pieces/instruments/README.md
@@ -11,7 +11,7 @@ Cztery instrumenty w jasnym studiu, jeden naraz (pasek ‹ nazwa › na dole, st
 - **Melody:** stare, wolne melodie (The Saints, Ode to Joy) i własny blues lick; każdy klawisz, tap w saksofon albo klawisz na ekranie gra następną nutę tak długo, jak trzymasz; następna nuta świeci na klawiaturze.
 - **Breath:** mikrofon (pyta o zgodę); głośność dmuchania = głośność saksofonu, klawisze wybierają nutę, bez klawisza gra ostatnia.
 
-**Gitara:** elektryczna albo akustyczna (przełącznik w pasku), model w kodzie (korpus z obrysu wyciągnięty i fazowany, gryf z progami wg reguły pierwiastka 12. stopnia, główka z kluczami, 6 strun drgających po uderzeniu, statyw). Dźwięk: prawdziwe struny z [Open String Guitar](https://tildesounds.gumroad.com/l/openstringguitar) (tildesounds, CC0): 6 otwartych strun E2 A2 D3 F3 G3 C4, każda w 3 siłach (lekko/średnio/mocno, pliki gtr_*_s|m|h, 18 × 3,6 s mono 32 kHz, ~3,9 MB); nuta gra z najbliższej struny, przestrojonej; siła uderzenia wybiera nagranie. Zapas, zanim się wczytają: synteza Karplus–Strong (szum krążący w linii opóźnienia długości okresu, tracący trochę przy każdym obiegu), elektryczna przez przester (tanh) i kolumnę (dolnoprzepustowy 3,4 kHz + środek), akustyczna z rezonansem pudła (180 Hz) i powietrzem. Akord = szarpnięcie od najniższej struny (elektryczna: power chordy root/kwinta/oktawa, akustyczna: otwarte chwyty). Granie: 1–8 (paleta akordów, inna dla elektrycznej i akustycznej) albo przyciski pod gitarą, Z…/Q… pojedyncze nuty od niskiego E, klik w struny = ostatni akord. W utworach rockowych partia gitary to akordy utworu w rytmie perkusji (power chordy / bicie), bez oryginalnych riffów i melodii.
+**Gitara:** elektryczna (typu S: korpus z obrysu z dwoma rogami, sunburst, maskownica, 3 single-coile z biegunami, mostek z 6 siodełkami i ramieniem tremolo, gałki i przełącznik, główka 6 w rzędzie) albo akustyczna (dreadnought: świerkowa płyta z białą obwódką, rozeta, maskownica „żółw”, mostek z siodełkiem i kołkami, główka 3+3); gryf 21 progów, struny przez siodełko do kluczy; statyw osobno (GT.userData.stand), sama gitara w GT.userData.axe. Dźwięk: prawdziwe struny z [Open String Guitar](https://tildesounds.gumroad.com/l/openstringguitar) (tildesounds, CC0): 6 otwartych strun E2 A2 D3 F3 G3 C4, każda w 3 siłach (lekko/średnio/mocno, pliki gtr_*_s|m|h, 18 × 3,6 s mono 32 kHz, ~3,9 MB); nuta gra z najbliższej struny, przestrojonej; siła uderzenia wybiera nagranie. Zapas, zanim się wczytają: synteza Karplus–Strong (szum krążący w linii opóźnienia długości okresu, tracący trochę przy każdym obiegu), elektryczna przez przester (tanh) i kolumnę (dolnoprzepustowy 3,4 kHz + środek), akustyczna z rezonansem pudła (180 Hz) i powietrzem. Akord = szarpnięcie od najniższej struny (elektryczna: power chordy root/kwinta/oktawa, akustyczna: otwarte chwyty). Granie: 1–8 (paleta akordów, inna dla elektrycznej i akustycznej) albo przyciski pod gitarą, Z…/Q… pojedyncze nuty od niskiego E, klik w struny = ostatni akord. W utworach rockowych partia gitary to akordy utworu w rytmie perkusji (power chordy / bicie), bez oryginalnych riffów i melodii.
 
 **Gramy razem (Play together):** pokój z linkiem (`?join=kod`), przeglądarka–przeglądarka przez WebRTC (PeerJS; ich darmowy publiczny serwer tylko łączy, nuty idą bezpośrednio). Każdy gra swoim instrumentem (dowolnym z czterech, utwory zespołowe) na swoim poziomie; gospodarz wybiera utwór i tempo; start w uzgodnionej chwili na wspólnym zegarze (5 pingów, najkrótszy obieg wyznacza różnicę zegarów). Uderzenia partnera słychać na żywo (sieć dodaje 50–150 ms), jego wynik i combo widać w trakcie, na końcu obie karty wyników i kto wygrał. Pokój żyje, dopóki strona gospodarza jest otwarta.
 
@@ -21,6 +21,7 @@ Cztery instrumenty w jasnym studiu, jeden naraz (pasek ‹ nazwa › na dole, st
 
 **Utwory (♪ Play a song):** jak Guitar Hero, ale nic nie gra samo: nuty spadają do linii trafień, każdą grasz sam (klawisz, tap w instrument albo w tor). Przed startem 4 kliknięcia metronomu; tempo 50, 75 albo 100%. Ocena: Perfect do 60 ms, Good do 140 ms, przepuszczona = Miss; combo mnoży punkty do ×4; na końcu karta: gwiazdki (95/80/50% celności), celność, najlepsze combo, rekord (zapisany na urządzeniu osobno dla każdego tempa, `lab.instruments.v1.best`).
 - **Plansza do gry (wszystkie instrumenty tak samo):** tylko tory, których utwór potrzebuje, od lewej do prawej, każdy na klawiszu ze środkowego rzędu (3 tory: F G H, 5: D F G H J, do 10: A…;, powyżej 10: rząd cyfr); te same litery na klawiszach-torach pod linią (na telefonie do stukania). Wciśnięty klawisz-tor zapada się i bierze kolor toru; reaguje też na uderzenie klikiem w sam instrument. Na planszy linie taktów i gniazda na linii trafień.
+- **Poziomy jak w Guitar Hero:** Hero = grasz wszystko; 3 keys = grasz mniej więcej jedną nutę na miarę (na ósemkach), 1 key = najwyżej jedną co 2 miary; resztę aplikacja dogrywa sama w rytmie (blade kropki na torze), więc utwór brzmi w całości. Naciśnięcie obok rytmu (do 0,28 s) i tak gra właściwy dźwięk w chwili naciśnięcia (liczy się jako pudło, szary ślad).
 - **Poziomy (przełącznik w wyborze utworu, zapamiętany):** **1 key** = jeden tor (Spacja albo F/G/H/J), trafiasz tylko w rytm, a właściwy dźwięk gra się sam (uderzenia w tym samym momencie łączą się w jedno naciśnięcie, np. stopa + hi-hat); **3 keys** = perkusja: Kick / Drums / Cymbals, ksylofon i saksofon: Low / Middle / High (pasma wysokości w danym utworze), dźwięk też gra się sam; **All keys** = każdy element / nuta na swoim klawiszu, jak dotąd. Rekordy osobno dla poziomu i tempa. Klik w sam instrument też się liczy (bez podwójnego dźwięku).
 - **Twój ślad:** każde trafienie zostawia kreskę w torze (wyżej = za wcześnie, niżej = za późno) z napisem „early/late X ms”; pod wynikiem pasek celności: kropki w lewo (wcześnie) i w prawo (późno) gasną po 4 s; na karcie wyniku średnie przesunięcie („right on the beat” albo „a touch early/late”).
 - **Perkusja:** brakujące elementy zestawu dokładają się same. Rytmy (same partie perkusji, uproszczone): We Will Rock You, Billie Jean, Another One Bites the Dust, Seven Nation Army, In the Air Tonight (przejście na tomach), Can’t Stop, Back in Black.
